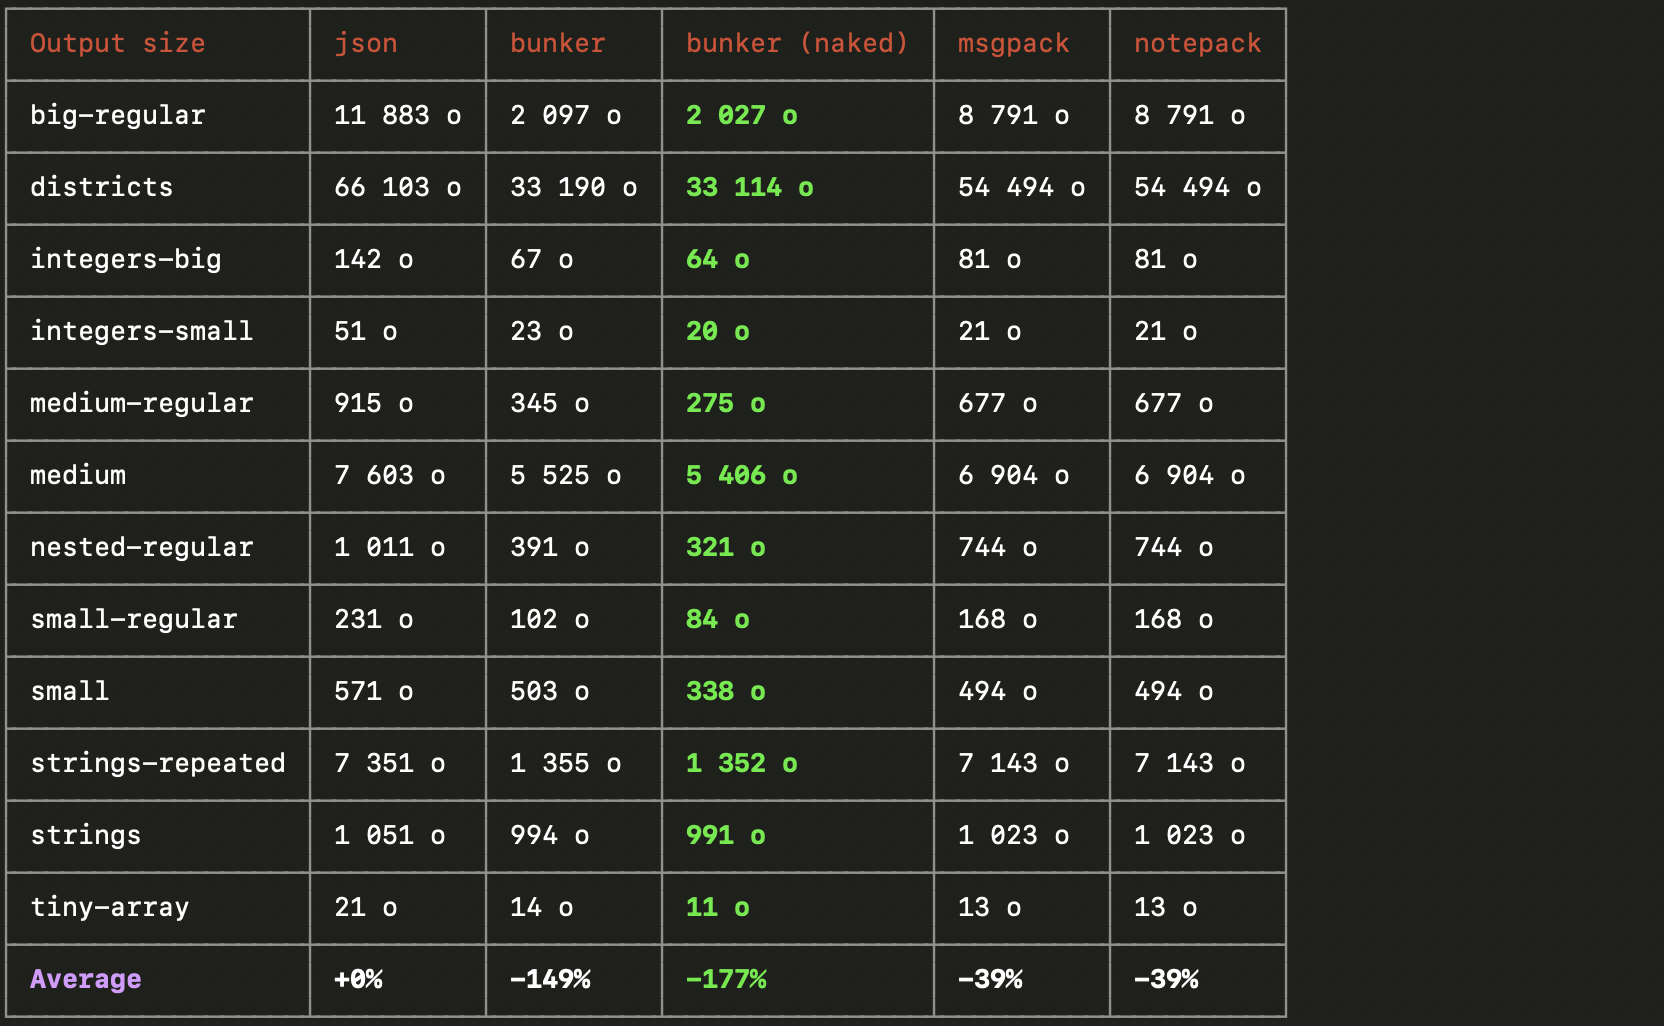
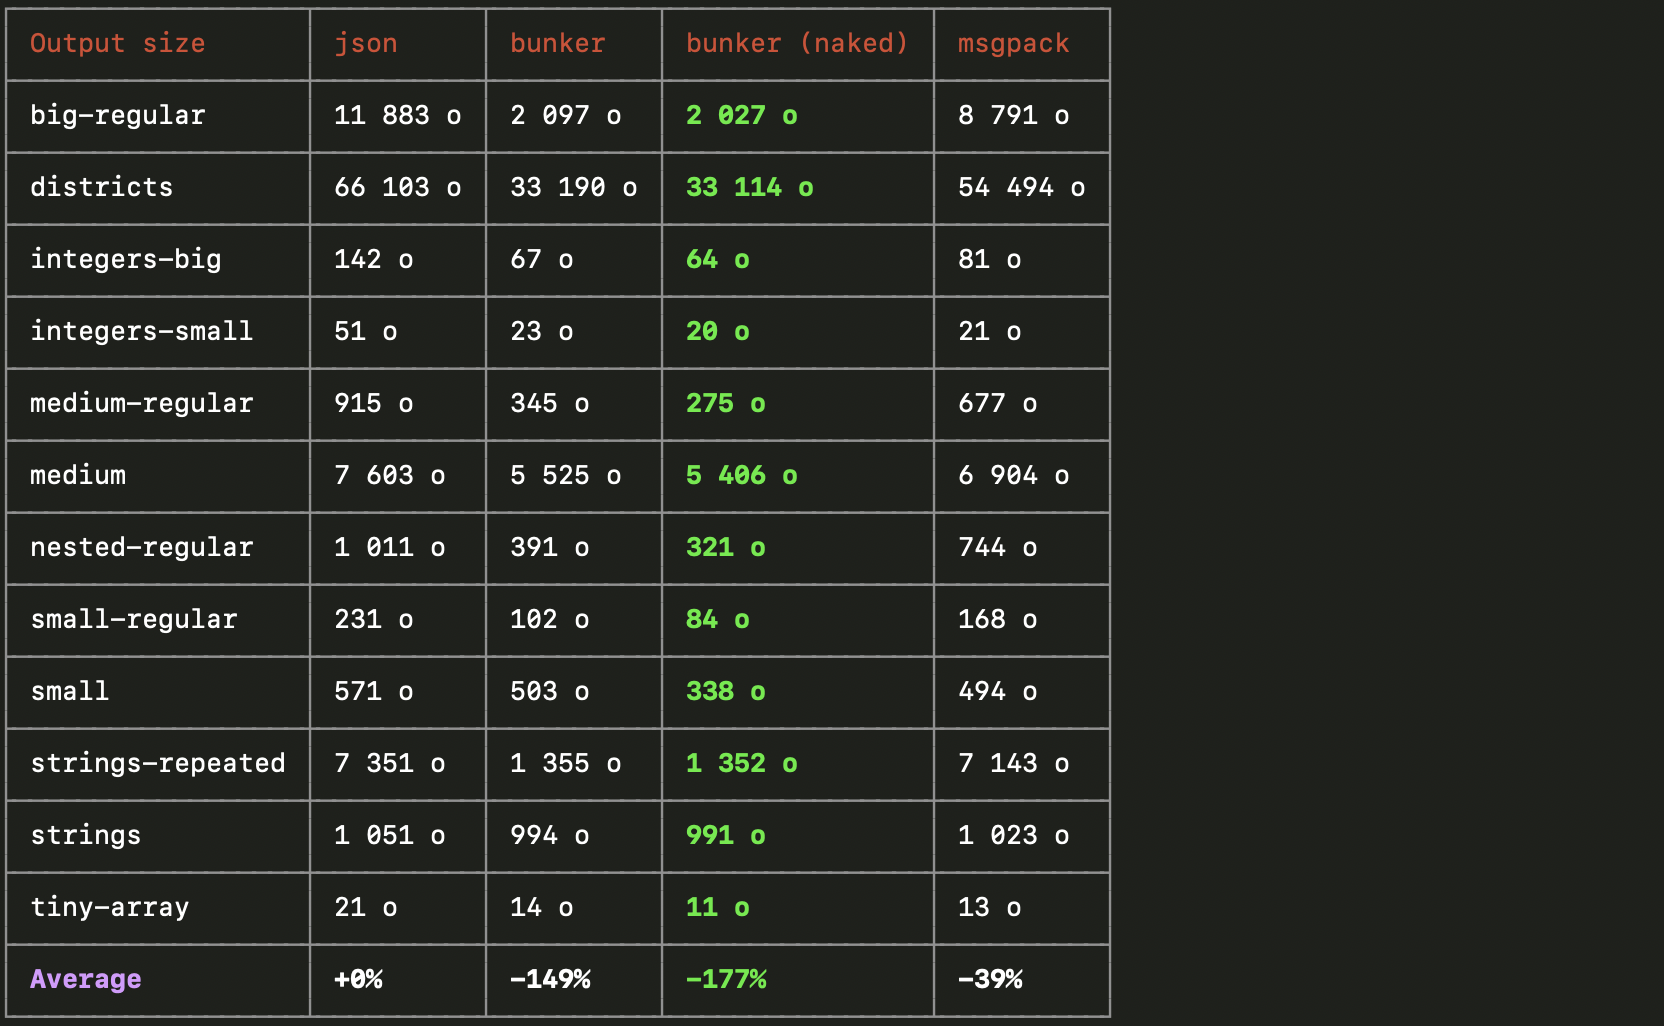
Improve README

diff --git a/benchmark/index.ts b/benchmark/index.ts
@@ -138,7 +138,7 @@ async function benchmark(fn: Function, iterations = 500) {
 		"bunker (naked)": async ([value]: any) =>
 			bunker.compile(schemaOf(value)).encodeNaked(value),
 		msgpack: async ([value]: any) => msgpack.encode(value),
-		notepack: async ([value]: any) => notepack.encode(value),
+		// notepack: async ([value]: any) => notepack.encode(value),
 	}
 
 	const encoded = {}
@@ -175,7 +175,7 @@ async function benchmark(fn: Function, iterations = 500) {
 			"bunker (compiled)": async (encoded: any) =>
 				encoded["bunker"][1](encoded["bunker"][0]),
 			msgpack: async (encoded: any) => msgpack.decode(encoded.msgpack[0]),
-			notepack: async (encoded: any) => notepack.decode(encoded.notepack[0]),
+			// notepack: async (encoded: any) => notepack.decode(encoded.notepack[0]),
 		},
 		format: (value: number) => Intl.NumberFormat().format(~~value) + " ops/s",
 		apply: benchmark,
@@ -193,7 +193,7 @@ async function benchmark(fn: Function, iterations = 500) {
 			// "bunker (naked)": ([value, , compiled]: any) => compiled.encodeNaked(value),
 			"bunker (compiled)": async ([value, , compiled]: any) => compiled.encode(value),
 			msgpack: async ([value]: any) => msgpack.encode(value),
-			notepack: async ([value]: any) => notepack.encode(value),
+			// notepack: async ([value]: any) => notepack.encode(value),
 		},
 		format: (value: number) => Intl.NumberFormat().format(~~value) + " ops/s",
 		apply: benchmark,

diff --git a/README.md b/README.md
@@ -1,5 +1,5 @@
 # Bunker
-Bunker is a fast and compact JSON alternative to store, pass and retrieve data in a binary format with a friendly API.
+Bunker is a fast and compact JSON alternative to store and share data in a binary format with a friendly API.
 
 It can be compared to [MessagePack](https://msgpack.org/index.html) or [Protocol Buffers](https://developers.google.com/protocol-buffers).
 
@@ -7,9 +7,9 @@ Bunker is finely optimized to be very compact. In average, its output is **2.5x 
 
 Bunker achieves this extreme density by:
 
-- using a custom binary format for integers (this special format is called  elastic integers),
-- working well with arrays of objects. Instead of writing repeatedly all objects with all keys like JSON and MessagePack do, it guesses the most accurate schema and write keys and types only once,
-- memorizing and reusing strings and objects so that nothing is encoded twice.
+- using a **custom binary format for integers** called  [elastic integers](https://github.com/digital-loukoum/bunker/tree/main/documentation/specifications#elastic-integers),
+- working well with **arrays of objects**. Instead of writing repeatedly all objects with all keys like JSON and MessagePack do, it guesses the most accurate schema and write keys and types only once,
+- **memorizing** and **reusing strings and objects** so that nothing is encoded twice.
 
 Bunker is very compact but also extremely versatile as it can encode any data type.
 
@@ -22,10 +22,23 @@ Unlike JSON and MessagePack, Bunker correctly encode and decode:
 - maps,
 - sets,
 - maps and sets with properties,
-- **instances of classes**: you can store and retrieve your prototypes,
+- **instances of classes** (you can store and retrieve your prototypes),
 - and **circular references**.
 
-## Usage
+## Use cases
+
+Bunker is great to **store** or **share** data between processes.
+
+For example you can use Bunker to communicate between a server and a client with more efficiency and versatility than JSON.
+
+You can also save your objects into bunker files and load them later on.
+
+Or you can use Bunker to communicate between a process written in language X and another one written in language Y.
+
+If you don't find a bunker library with your programming language, feel free to create your own by following the [official bunker binary format specifications](https://github.com/digital-loukoum/bunker/tree/main/documentation/specifications).
+
+
+## API
 
 Bunker exports two main functions to encode and decode data:
 
@@ -145,9 +158,7 @@ console.log(decodeNaked(encoded36)) // print 36
 Naked encoding slightly improves data density as well as encoding / decoding speed, but you take the risk of ***losing your data*** if you lose the schema you used.
 
 
-## Use cases
-
-### Reading and writing files with bunker
+## Reading and writing files with bunker
 
 Bunker also exports two functions to easily encode to a file / decode from a file:
 
@@ -179,7 +190,7 @@ console.log(decoded.foo)  // print "12"
 
 
 
-### Fetching bunker binary data from browser
+## Fetching bunker binary data from browser
 
 Using the fetch API:
 
@@ -201,7 +212,7 @@ const data = debunker(response.data)
 ```
 
 
-### Serving bunker binary data from a node server
+## Serving bunker binary data from a node server
 
 If you serve a file, it is recommended to use streams:
 
@@ -243,15 +254,24 @@ http.createServer((request, response) => {
 })
 ```
 
-### Communicating between processes
-
-Because of its versatility and its small size, bunker is a great choice for process communication.
-
-If you don't find a bunker library with your programming language, you can create your own by following the [official bunker binary format specifications](https://github.com/digital-loukoum/bunker/tree/main/documentation/specifications).
-
 
 ## Comparisons
 
 ### Output size
 
-![Data size comparison](https://github.com/digital-loukoum/bunker/tree/main/assets/bunker-data-size-comparison.png)
+Here is the comparison between JSON, Bunker (with and without schema) and MessagePack using a variety of object patterns frequently used:
+
+![Data size comparison](https://raw.githubusercontent.com/digital-loukoum/bunker/main/assets/bunker-data-size-comparisons.png)
+
+Naked bunker (ie. without the schema encoded, only data) is obviously the winner in all categories, but embedding the schema is not as costy as we may think, especially for large objects.
+
+In average, Bunker's encoded data is:
+
+- **2.5x smaller** than JSON (**2.75x** smaller for naked encoding),
+- **2.1x smaller** than MessagePack (**2.35x** smaller for naked encoding).
+
+### Encoding / decoding speed
+
+If you manually indicates the schema of your values, this Typescript implementation of the bunker binary format specification is extremely fast.
+
+If you let Bunker guess the schema of your value though your performances will fall down.
